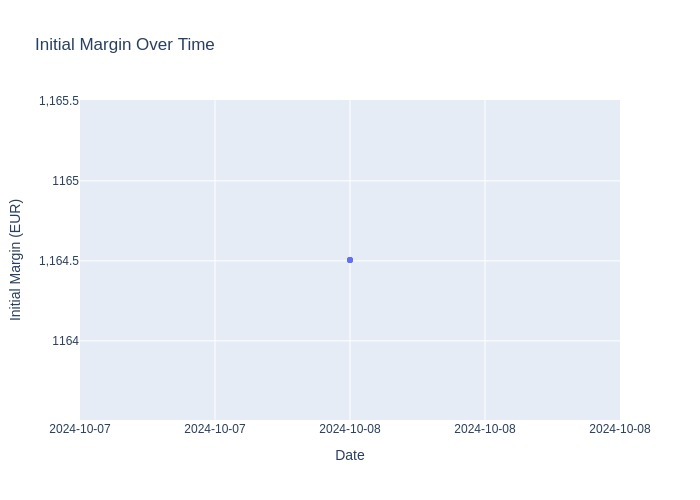
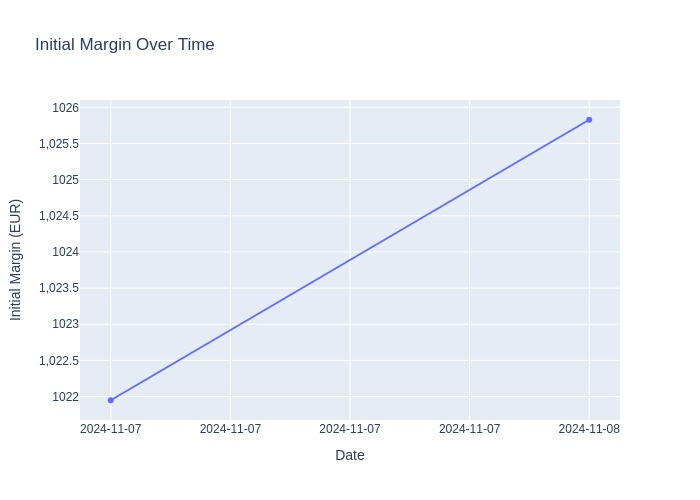
changing the project structure for pyproject.toml

diff --git a/margin_estimator_tool/src/margin_estimator_tool/etd_portfolio/etd_portfolio_request_handler.py b/margin_estimator_tool/src/margin_estimator_tool/etd_portfolio/etd_portfolio_request_handler.py
@@ -2,26 +2,29 @@
 This module contains logic for retrieving information about products from
 endpoint and then outputting them in desired form.
 """
+
+
 import csv
 import json
-from typing import Dict, Any, Optional, List, Union
+from typing import Dict, Any
 import os
 import click
 from cpme_api.models import BodyEstimator
 import cpme_api.models as spec
-from margin_estimator_tool.export_strategy.export_context import ExportContext
-from margin_estimator_tool.export_strategy.csv_export_strategy import CSVExportStrategy
-from margin_estimator_tool.export_strategy.excel_export_strategy import ExcelExportStrategy
-from margin_estimator_tool.export_strategy.json_export_strategy import JSONExportStrategy
-from margin_estimator_tool.core.request_handler_base import RequestHandler
+from margin_estimator_tool.src.margin_estimator_tool.export_strategy.export_context import ExportContext
+from margin_estimator_tool.src.margin_estimator_tool.export_strategy.csv_export_strategy import CSVExportStrategy
+from margin_estimator_tool.src.margin_estimator_tool.export_strategy.excel_export_strategy import ExcelExportStrategy
+from margin_estimator_tool.src.margin_estimator_tool.export_strategy.json_export_strategy import JSONExportStrategy
+from margin_estimator_tool.src.margin_estimator_tool.core.request_handler_base import RequestHandler
+from margin_estimator_tool.src.margin_estimator_tool.core.utils import flatten_dict
 
 # study https://deutsche-boerse-risk.github.io/CloudPrismaMarginEstimator/docs/gui.html#prepare-etd-portfolio
 
 
 class EtdPortfolioRequestHandler(RequestHandler):
-    """Handler for sending requests to the /products endpoint and exporting data."""
+    """Handler for sending requests to the /estimator endpoint and exporting data."""
 
-    REQUIRED_HEADERS = "Product ID,Contract Date,Call Put Flag,Exercise Price, Version Number, Net LS Balance"
+    REQUIRED_HEADERS = "Product ID,Contract Date,Call Put Flag,Exercise Price,Version Number,Net LS Balance"
 
     def __init__(self,
                  csv_file,
@@ -47,7 +50,10 @@ class EtdPortfolioRequestHandler(RequestHandler):
             return
 
         portfolio = self.send_request()
-
+        # flatten_dict(portfolio)
+        #
+        # print(json.dumps(portfolio, indent=4))
+        #
         # context = ExportContext()
         #
         # if self.to_excel:
@@ -58,6 +64,28 @@ class EtdPortfolioRequestHandler(RequestHandler):
         #     context.set_strategy(CSVExportStrategy("portfolio"))
         #
         # context.export_data(str(self.business_date), self.version, portfolio, self.export_dir)
+
+        flattened_data = []
+        if isinstance(portfolio, dict):
+            # Handle single portfolio item
+            flattened_data.append(flatten_dict(portfolio))
+        elif isinstance(portfolio, list):
+            # Handle multiple portfolio items
+            flattened_data = [flatten_dict(item) for item in portfolio]
+        else:
+            click.echo("Error: Invalid portfolio data structure")
+            return
+
+        context = ExportContext()
+
+        if self.to_excel:
+            context.set_strategy(ExcelExportStrategy("portfolio"))
+        elif self.to_json:
+            context.set_strategy(JSONExportStrategy("portfolio"))
+        else:
+            context.set_strategy(CSVExportStrategy("portfolio"))
+
+        context.export_data(str(self.business_date), self.version, flattened_data, self.export_dir)
 
         click.echo(f"Portfolio exported to {self.export_dir}")
 

diff --git a/margin_estimator_tool/src/margin_estimator_tool/scripts/main.py b/margin_estimator_tool/src/margin_estimator_tool/scripts/main.py
@@ -1,3 +1,5 @@
+#! /usr/bin/env python3
+
 """
 Main module of the application, contains the starting point.
 """
@@ -5,19 +7,19 @@ Main module of the application, contains the starting point.
 
 import click
 from typing import Optional
-from margin_estimator_tool.products.products_request_handler import ProductsRequestHandler
-from margin_estimator_tool.estimator.estimator_request_handler import EstimatorRequestHandler
-from margin_estimator_tool.series.series_request_handler import SeriesRequestHandler
-from margin_estimator_tool.live_snapshots.live_snapshots_request_handler import LiveSnapshotRequestHandler
-from margin_estimator_tool.snapshots.snapshots_request_handler import SnapshotRequestHandler
-from margin_estimator_tool.core.request_handler_base import RequestHandler
-from margin_estimator_tool.etd_portfolio.etd_portfolio_request_handler import EtdPortfolioRequestHandler
-from margin_estimator_tool.core.argument_validator import (GetProductsValidator,
-                                                           PostEstimatorValidator,
-                                                           GetSeriesValidator,
-                                                           GetLiveSnapshotsValidator,
-                                                           GetSnapshotsValidator,
-                                                           EtdPortfolioValidator)
+from margin_estimator_tool.src.margin_estimator_tool.products.products_request_handler import ProductsRequestHandler
+from margin_estimator_tool.src.margin_estimator_tool.estimator.estimator_request_handler import EstimatorRequestHandler
+from margin_estimator_tool.src.margin_estimator_tool.series.series_request_handler import SeriesRequestHandler
+from margin_estimator_tool.src.margin_estimator_tool.live_snapshots.live_snapshots_request_handler import LiveSnapshotRequestHandler
+from margin_estimator_tool.src.margin_estimator_tool.snapshots.snapshots_request_handler import SnapshotRequestHandler
+from margin_estimator_tool.src.margin_estimator_tool.core.request_handler_base import RequestHandler
+from margin_estimator_tool.src.margin_estimator_tool.etd_portfolio.etd_portfolio_request_handler import EtdPortfolioRequestHandler
+from margin_estimator_tool.src.margin_estimator_tool.core.argument_validator import (GetProductsValidator,
+                                                                                     PostEstimatorValidator,
+                                                                                     GetSeriesValidator,
+                                                                                     GetLiveSnapshotsValidator,
+                                                                                     GetSnapshotsValidator,
+                                                                                     EtdPortfolioValidator)
 
 
 @click.group()

diff --git a/margin_estimator_tool/src/margin_estimator_tool/series/series_request_handler.py b/margin_estimator_tool/src/margin_estimator_tool/series/series_request_handler.py
@@ -3,17 +3,14 @@ This module contains logic for retrieving data about series and giving
 output to the user.
 """
 
-
-import json
-from datetime import datetime
 from typing import Dict, Any, Optional, List, Union
 import os
 import click
-from margin_estimator_tool.export_strategy.export_context import ExportContext
-from margin_estimator_tool.export_strategy.csv_export_strategy import CSVExportStrategy
-from margin_estimator_tool.export_strategy.excel_export_strategy import ExcelExportStrategy
-from margin_estimator_tool.export_strategy.json_export_strategy import JSONExportStrategy
-from margin_estimator_tool.core.request_handler_base import RequestHandler
+from margin_estimator_tool.src.margin_estimator_tool.export_strategy.export_context import ExportContext
+from margin_estimator_tool.src.margin_estimator_tool.export_strategy.csv_export_strategy import CSVExportStrategy
+from margin_estimator_tool.src.margin_estimator_tool.export_strategy.excel_export_strategy import ExcelExportStrategy
+from margin_estimator_tool.src.margin_estimator_tool.export_strategy.json_export_strategy import JSONExportStrategy
+from margin_estimator_tool.src.margin_estimator_tool.core.request_handler_base import RequestHandler
 
 EXTRAFIELDS = ['product_id', 'contract_date', 'contract_maturity', 'expiry_maturity',
                'call_put_flag', 'exercies_price', 'version_number', 'iid',

diff --git a/margin_estimator_tool/src/margin_estimator_tool/products/products_request_handler.py b/margin_estimator_tool/src/margin_estimator_tool/products/products_request_handler.py
@@ -7,11 +7,11 @@ endpoint and then outputting them in desired form.
 from typing import Dict, Any, Optional, List, Union
 import os
 import click
-from margin_estimator_tool.export_strategy.export_context import ExportContext
-from margin_estimator_tool.export_strategy.csv_export_strategy import CSVExportStrategy
-from margin_estimator_tool.export_strategy.excel_export_strategy import ExcelExportStrategy
-from margin_estimator_tool.export_strategy.json_export_strategy import JSONExportStrategy
-from margin_estimator_tool.core.request_handler_base import RequestHandler
+from margin_estimator_tool.src.margin_estimator_tool.export_strategy.export_context import ExportContext
+from margin_estimator_tool.src.margin_estimator_tool.export_strategy.csv_export_strategy import CSVExportStrategy
+from margin_estimator_tool.src.margin_estimator_tool.export_strategy.excel_export_strategy import ExcelExportStrategy
+from margin_estimator_tool.src.margin_estimator_tool.export_strategy.json_export_strategy import JSONExportStrategy
+from margin_estimator_tool.src.margin_estimator_tool.core.request_handler_base import RequestHandler
 
 
 EXTRAFIELDS = ['product', 'instrument_type', 'clearing_house', 'prod_name', 'prod_isin',

diff --git a/margin_estimator_tool/src/margin_estimator_tool/estimator/estimator_request_handler.py b/margin_estimator_tool/src/margin_estimator_tool/estimator/estimator_request_handler.py
@@ -8,12 +8,12 @@ from datetime import datetime
 import click
 from cpme_api.models import BodyEstimator
 import cpme_api.models as spec
-from margin_estimator_tool.core.request_handler_base import RequestHandler
-from margin_estimator_tool.estimator.extractor import Extractor
-from margin_estimator_tool.estimator.portfolio_loader import PortfolioLoader
-from margin_estimator_tool.estimator.graph_exporter import GraphExporter
-from margin_estimator_tool.estimator.excel_exporter import ExcelExporter
-from margin_estimator_tool.core.utils import collect_business_days
+from margin_estimator_tool.src.margin_estimator_tool.core.request_handler_base import RequestHandler
+from margin_estimator_tool.src.margin_estimator_tool.estimator.extractor import Extractor
+from margin_estimator_tool.src.margin_estimator_tool.estimator.portfolio_loader import PortfolioLoader
+from margin_estimator_tool.src.margin_estimator_tool.estimator.graph_exporter import GraphExporter
+from margin_estimator_tool.src.margin_estimator_tool.estimator.excel_exporter import ExcelExporter
+from margin_estimator_tool.src.margin_estimator_tool.core.utils import collect_business_days
 
 
 class EstimatorRequestHandler(RequestHandler):

diff --git a/margin_estimator_tool/src/margin_estimator_tool/core/request_handler_base.py b/margin_estimator_tool/src/margin_estimator_tool/core/request_handler_base.py
@@ -7,13 +7,13 @@ sending requests to the API.
 import sys
 import json
 from abc import ABC, abstractmethod
-from typing import Optional, Dict, Any
+from typing import Optional
 from datetime import datetime, timedelta
 from cpme_api.api import CpmeApi, Configuration
 from cpme_api.models import set_data_validation
 import click
 import requests
-from margin_estimator_tool.core.utils import is_business_day
+from margin_estimator_tool.src.margin_estimator_tool.core.utils import is_business_day
 
 
 class RequestHandler(ABC):

diff --git a/margin_estimator_tool/src/margin_estimator_tool/core/utils.py b/margin_estimator_tool/src/margin_estimator_tool/core/utils.py
@@ -1,9 +1,8 @@
 """Utility functions for the margin_calculator package."""
 
-from typing import Dict, List, Union, Tuple, Optional
+
+from typing import Dict, List, Union, Tuple
 from datetime import datetime, timedelta
-import os
-import click
 
 
 def is_business_day(current_date: datetime) -> bool:
@@ -43,4 +42,5 @@ def flatten_dict(
                 items.append((new_key, str(v)))
         else:
             items.append((new_key, v))
+            
     return dict(items)

diff --git a/margin_estimator_tool/src/margin_estimator_tool/snapshots/snapshots_request_handler.py b/margin_estimator_tool/src/margin_estimator_tool/snapshots/snapshots_request_handler.py
@@ -7,7 +7,7 @@ available snapshots for range of dates and then outputs it.
 from datetime import datetime
 from typing import Optional, List, Dict, Any
 import click
-from margin_estimator_tool.core.request_handler_base import RequestHandler
+from margin_estimator_tool.src.margin_estimator_tool.core.request_handler_base import RequestHandler
 
 
 class SnapshotRequestHandler(RequestHandler):

diff --git a/margin_estimator_tool/src/margin_estimator_tool/live_snapshots/live_snapshots_request_handler.py b/margin_estimator_tool/src/margin_estimator_tool/live_snapshots/live_snapshots_request_handler.py
@@ -7,7 +7,7 @@ live snapshots from estimator.
 from datetime import datetime
 from typing import Dict, Any, List
 import click
-from margin_estimator_tool.core.request_handler_base import RequestHandler
+from margin_estimator_tool.src.margin_estimator_tool.core.request_handler_base import RequestHandler
 
 
 class LiveSnapshotRequestHandler(RequestHandler):

diff --git a/margin_estimator_tool/src/margin_estimator_tool/estimator/excel_exporter.py b/margin_estimator_tool/src/margin_estimator_tool/estimator/excel_exporter.py
@@ -3,7 +3,7 @@
 from typing import List, Dict, Union, Tuple, Set
 from openpyxl import Workbook
 from openpyxl.worksheet.worksheet import Worksheet
-from margin_estimator_tool.core.utils import flatten_dict
+from margin_estimator_tool.src.margin_estimator_tool.core.utils import flatten_dict
 
 
 class ExcelExporter:
